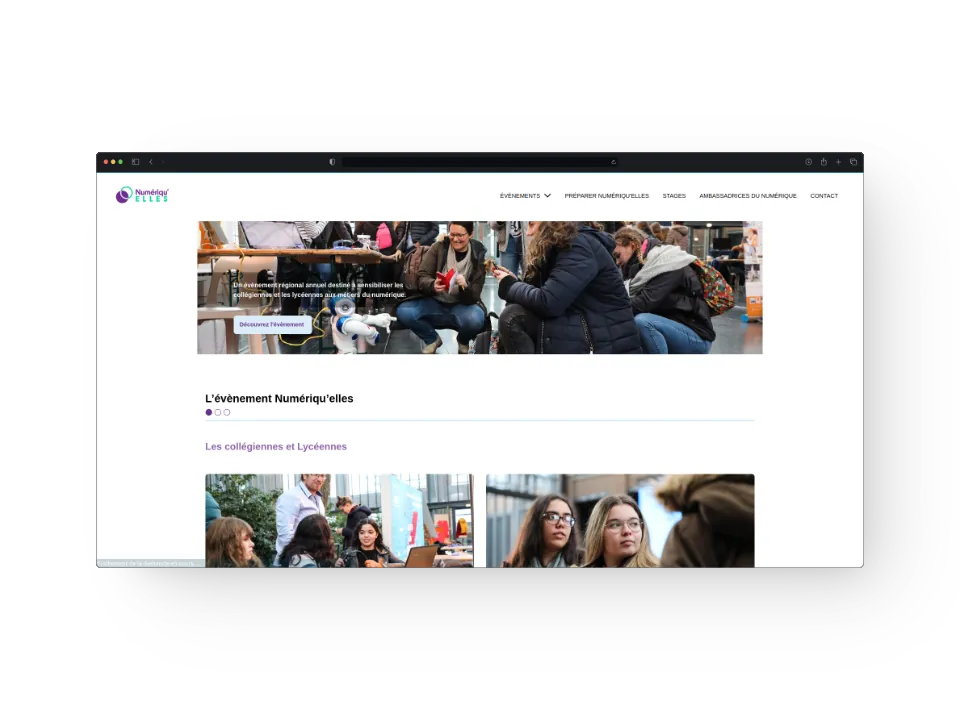
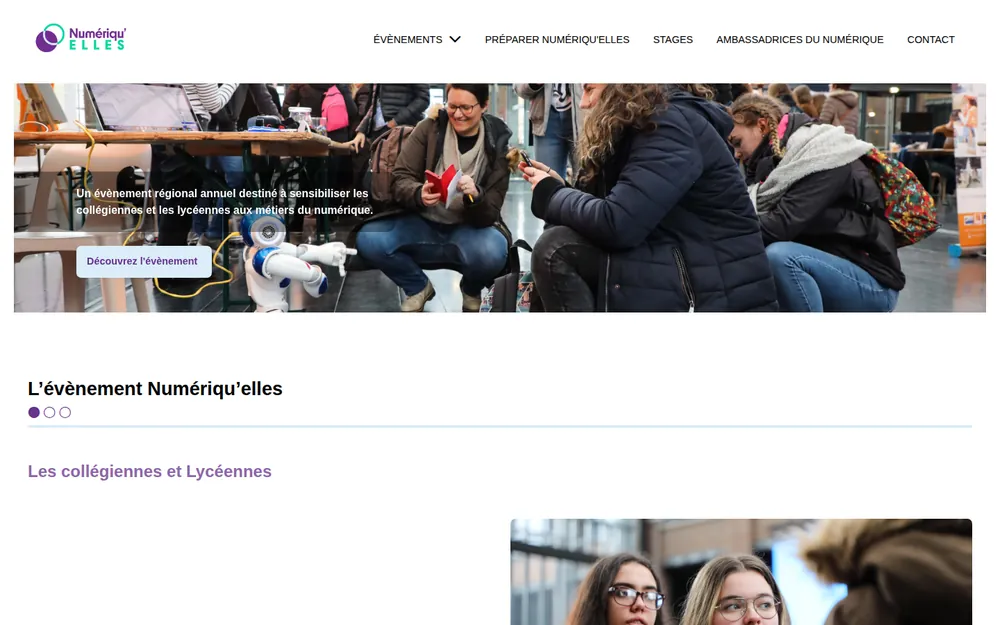
replace projects with recent work

diff --git a/index.html b/index.html
@@ -400,7 +400,7 @@
         <img loading="lazy" src="./shared/asterisque.svg" alt="">
       </h2>
       <p>
-        — Explore my GitHub for projects showcasing my
+        — A selection of recent projects showcasing my
         <span class="highlight">skills</span> in building efficient and creative solutions.
         Discover a range of projects highlighting my approach to <span class="highlight">clean</span>, 
         <span class="highlight">effective</span> development.
@@ -410,72 +410,84 @@
       <li>
         <div data-aos="fade-right" data-aos-anchor-placement="top-bottom" data-aos-delay="50" class="accordion_element">
           <span class="accordion_number">00</span>
-          <h3 class="accordion_title">last champion</h3>
+          <div class="accordion_info">
+            <h3 class="accordion_title">l'observatoire <span class="accordion_badge">✦ awwwards</span></h3>
+            <p class="accordion_desc">Scroll-driven journey through the solar system</p>
+            <p class="accordion_meta">react · vite · tailwind · gsap · 2025</p>
+          </div>
         </div>
         <div class="tooltip_image">
-          <img loading="lazy" src="./shared/last_champion.webp" alt="Mockup Last Champion">
+          <img loading="lazy" src="./shared/observatoire.webp" alt="Preview of L'Observatoire">
         </div>
-        <a data-aos="fade-left" data-aos-anchor-placement="top-bottom" data-aos-delay="50" class="accordion_git" href="https://github.com/Khadija-Asa/LastChampion" rel="noopener noreferrer" target="_blank">view on github <span aria-hidden="true">↗</span><span class="sr_only"> (opens in a new tab)</span></a>
+        <div data-aos="fade-left" data-aos-anchor-placement="top-bottom" data-aos-delay="50" class="accordion_links">
+          <a class="accordion_git accordion_live" href="https://observatoire-weld.vercel.app/" rel="noopener noreferrer" target="_blank">live <span aria-hidden="true">↗</span><span class="sr_only"> (opens in a new tab)</span></a>
+        </div>
       </li>
       <li>
         <div data-aos="fade-right" data-aos-anchor-placement="top-bottom" data-aos-delay="100" class="accordion_element">
           <span class="accordion_number">01</span>
-          <h3 class="accordion_title">space tourism</h3>
+          <div class="accordion_info">
+            <h3 class="accordion_title">lacet fluffy</h3>
+            <p class="accordion_desc">E-commerce for premium sneaker laces</p>
+            <p class="accordion_meta">next.js · tailwind · stripe · 2026</p>
+          </div>
         </div>
         <div class="tooltip_image">
-          <img loading="lazy" src="./shared/space_tourism.webp" alt="Mockup Space Tourism">
+          <img loading="lazy" src="./shared/lacet_fluffy.webp" alt="Preview of Lacet Fluffy">
         </div>
-        <a data-aos="fade-left" data-aos-anchor-placement="top-bottom" data-aos-delay="100" class="accordion_git" href="https://github.com/Khadija-Asa/space-tourism" rel="noopener noreferrer" target="_blank">view on github <span aria-hidden="true">↗</span><span class="sr_only"> (opens in a new tab)</span></a>
+        <div data-aos="fade-left" data-aos-anchor-placement="top-bottom" data-aos-delay="100" class="accordion_links">
+          <a class="accordion_git accordion_live" href="https://fluffy-laces.vercel.app/" rel="noopener noreferrer" target="_blank">live <span aria-hidden="true">↗</span><span class="sr_only"> (opens in a new tab)</span></a>
+        </div>
       </li>
       <li>
         <div data-aos="fade-right" data-aos-anchor-placement="top-bottom" data-aos-delay="150" class="accordion_element">
           <span class="accordion_number">02</span>
-          <h3 class="accordion_title">numériqu'elles</h3>
+          <div class="accordion_info">
+            <h3 class="accordion_title">last champion</h3>
+            <p class="accordion_desc">Character face-off game — only one can remain</p>
+            <p class="accordion_meta">react · vite · sass · gsap · sanity · 2025</p>
+          </div>
         </div>
         <div class="tooltip_image">
-          <img loading="lazy" src="./shared/numeriquelles.webp" alt="Mockup Numériqu'Elles">
+          <img loading="lazy" src="./shared/last_champion.webp" alt="Preview of Last Champion">
         </div>
-        <a data-aos="fade-left" data-aos-anchor-placement="top-bottom" data-aos-delay="150" class="accordion_git" href="https://github.com/Khadija-Asa/numeriqu-elles" rel="noopener noreferrer" target="_blank">view on github <span aria-hidden="true">↗</span><span class="sr_only"> (opens in a new tab)</span></a>
+        <div data-aos="fade-left" data-aos-anchor-placement="top-bottom" data-aos-delay="150" class="accordion_links">
+          <a class="accordion_git accordion_live" href="https://www.lastchampion.fr/" rel="noopener noreferrer" target="_blank">live <span aria-hidden="true">↗</span><span class="sr_only"> (opens in a new tab)</span></a>
+          <a class="accordion_git" href="https://github.com/Khadija-Asa/LastChampion" rel="noopener noreferrer" target="_blank">code <span aria-hidden="true">↗</span><span class="sr_only"> (opens in a new tab)</span></a>
+        </div>
       </li>
       <li>
         <div data-aos="fade-right" data-aos-anchor-placement="top-bottom" data-aos-delay="200" class="accordion_element">
           <span class="accordion_number">03</span>
-          <h3 class="accordion_title">levyna</h3>
+          <div class="accordion_info">
+            <h3 class="accordion_title">asalab</h3>
+            <p class="accordion_desc">Web agency site with project request tracking</p>
+            <p class="accordion_meta">next.js · typescript · tailwind · gsap · prisma · 2021</p>
+          </div>
         </div>
         <div class="tooltip_image">
-          <img loading="lazy" src="./shared/levyna.webp" alt="Mockup Levyna">
+          <img loading="lazy" src="./shared/asalab.webp" alt="Preview of Asalab">
         </div>
-        <a data-aos="fade-left" data-aos-anchor-placement="top-bottom" data-aos-delay="200" class="accordion_git" href="https://github.com/Khadija-Asa/levyna" rel="noopener noreferrer" target="_blank">view on github <span aria-hidden="true">↗</span><span class="sr_only"> (opens in a new tab)</span></a>
+        <div data-aos="fade-left" data-aos-anchor-placement="top-bottom" data-aos-delay="200" class="accordion_links">
+          <a class="accordion_git accordion_live" href="https://www.asalab.fr/" rel="noopener noreferrer" target="_blank">live <span aria-hidden="true">↗</span><span class="sr_only"> (opens in a new tab)</span></a>
+        </div>
       </li>
       <li>
         <div data-aos="fade-right" data-aos-anchor-placement="top-bottom" data-aos-delay="250" class="accordion_element">
           <span class="accordion_number">04</span>
-          <h3 class="accordion_title">moon crypto</h3>
+          <div class="accordion_info">
+            <h3 class="accordion_title">numériqu'elles</h3>
+            <p class="accordion_desc">Regional event inspiring girls into tech careers</p>
+            <p class="accordion_meta">html · css · bootstrap · figma · 2020</p>
+          </div>
         </div>
         <div class="tooltip_image">
-          <img loading="lazy" src="./shared/moon.webp" alt="Mockup Moon Crypto">
+          <img loading="lazy" src="./shared/numeriquelles.webp" alt="Preview of Numériqu'elles">
         </div>
-        <a data-aos="fade-left" data-aos-anchor-placement="top-bottom" data-aos-delay="250" class="accordion_git" href="https://github.com/Khadija-Asa/moon_crypto" rel="noopener noreferrer" target="_blank">view on github <span aria-hidden="true">↗</span><span class="sr_only"> (opens in a new tab)</span></a>
-      </li>
-      <li>
-        <div data-aos="fade-right" data-aos-anchor-placement="top-bottom" data-aos-delay="300" class="accordion_element">
-          <span class="accordion_number">05</span>
-          <h3 class="accordion_title">nft equilibrium</h3>
+        <div data-aos="fade-left" data-aos-anchor-placement="top-bottom" data-aos-delay="250" class="accordion_links">
+          <a class="accordion_git accordion_live" href="https://khadija-asa.github.io/numeriqu-elles/" rel="noopener noreferrer" target="_blank">live <span aria-hidden="true">↗</span><span class="sr_only"> (opens in a new tab)</span></a>
+          <a class="accordion_git" href="https://github.com/Khadija-Asa/numeriqu-elles" rel="noopener noreferrer" target="_blank">code <span aria-hidden="true">↗</span><span class="sr_only"> (opens in a new tab)</span></a>
         </div>
-        <div class="tooltip_image">
-          <img loading="lazy" src="./shared/nft.webp" alt="Mockup Nft Equilibrium">
-        </div>
-        <a data-aos="fade-left" data-aos-anchor-placement="top-bottom" data-aos-delay="300" class="accordion_git" href="https://github.com/Khadija-Asa/nft-card" rel="noopener noreferrer" target="_blank">view on github <span aria-hidden="true">↗</span><span class="sr_only"> (opens in a new tab)</span></a>
-      </li>
-      <li>
-        <div data-aos="fade-right" data-aos-anchor-placement="top-bottom" data-aos-delay="350" class="accordion_element">
-          <span class="accordion_number">06</span>
-          <h3 class="accordion_title">portfolio</h3> 
-        </div>
-        <div class="tooltip_image">
-          <img loading="lazy" src="./shared/portfolio.webp" alt="Mockup Portfolio">
-        </div>
-        <a data-aos="fade-left" data-aos-anchor-placement="top-bottom" data-aos-delay="300" class="accordion_git" href="https://github.com/Khadija-Asa/personal-website" rel="noopener noreferrer" target="_blank">view on github <span aria-hidden="true">↗</span><span class="sr_only"> (opens in a new tab)</span></a>
       </li>
     </ul>
   </section>

diff --git a/styles/styles.css b/styles/styles.css
@@ -74,7 +74,8 @@
 }
 
 .hero_text { 
-  text-align: justify;
+  text-align: center;
+  text-wrap: balance;
   text-transform: uppercase;
   font-size: clamp(0.8rem, 0.66rem + 0.7vw, 1.5rem);
   max-width: 70rem;
@@ -149,7 +150,8 @@
 
 .introduce_title {
   text-transform: uppercase;
-  text-align: justify;
+  text-align: left;
+  text-wrap: balance;
   font-size: clamp(2rem, 1.4rem + 3vw, 5rem);
   font-family: 'Bold';
   padding: 0 1rem 5rem 1rem;
@@ -162,7 +164,8 @@
   margin-top: 20px;
   font-size: initial;
   text-transform: none;
-  text-align: justify;
+  text-align: left;
+  text-wrap: pretty;
 }
 
 .introduce_title h2 {
@@ -311,7 +314,8 @@
 .work_text p {
   padding-bottom: clamp(5rem, 4rem + 5vw, 10rem);
   text-transform: uppercase;
-  text-align: justify;
+  text-align: center;
+  text-wrap: balance;
   max-width: 70rem;
   margin: 5rem 1rem 0 1rem;
   font-size: clamp(1rem, 0.7rem + 1.5vw, 2.5rem);
@@ -390,7 +394,8 @@
 .accordion_intro {
   text-transform: uppercase;
   padding: 5rem 1rem;
-  text-align: justify;
+  text-align: left;
+  text-wrap: balance;
   font-size: clamp(2rem, 1.4rem + 3vw, 5rem);
   font-family: 'Bold';
 }
@@ -406,6 +411,7 @@
 
 .work_accordion p {
   max-width: 500px;
+  text-wrap: pretty;
   margin-top: 20px;
   font-family: 'Pergola';
   font-weight: 100;
@@ -485,18 +491,34 @@ li:hover .tooltip_image img {
 
 /* media queries */
 @media screen and (width < 1024px) {
+  .accordion_list li {
+    flex-direction: column;
+    align-items: stretch;
+    gap: 1.2rem;
+  }
   .tooltip_image {
-    display: none;
+    position: static;
+    opacity: 1;
+    width: 100%;
+  }
+  .tooltip_image img {
+    clip-path: none;
+    border-radius: 5px;
+  }
+  .accordion_links {
+    align-self: flex-start;
   }
 }
 
 /* number */
 .accordion_title {
-  font-size: inherit;
+  font-size: clamp(1.3rem, 0.8rem + 1.6vw, 3rem);
   font-weight: inherit;
 }
 
 .accordion_number {
+  min-width: 1.6em;
+  flex-shrink: 0;
   font-family: 'Aceh';
   font-size: clamp(1.5rem, 1rem + 2.5vw, 4rem);
   padding-top: clamp(0.0625rem, -0.075rem + 0.6875vw, 0.75rem);
@@ -516,6 +538,49 @@ li:hover .tooltip_image img {
 
 .accordion_git:hover {
   transform: translate(0, -2px);
+}
+
+.accordion_info {
+  display: flex;
+  flex-direction: column;
+  gap: .4rem;
+}
+
+.accordion_badge {
+  display: inline-block;
+  vertical-align: middle;
+  margin-left: .5rem;
+  padding: .3rem .6rem .2rem .6rem;
+  border: 1px solid var(--Purple);
+  border-radius: 50px;
+  color: var(--Purple);
+  font-family: 'Pergola';
+  font-size: clamp(0.6rem, 0.56rem + 0.2vw, 0.8rem);
+  letter-spacing: .05em;
+}
+
+.accordion_desc {
+  font-family: 'Pergola';
+  text-transform: none;
+  font-size: clamp(0.85rem, 0.8rem + 0.25vw, 1.1rem);
+}
+
+.accordion_meta {
+  font-family: 'Pergola';
+  text-transform: lowercase;
+  font-size: clamp(0.7rem, 0.66rem + 0.2vw, 0.9rem);
+  opacity: .6;
+}
+
+.accordion_links {
+  display: flex;
+  gap: .6rem;
+  flex-shrink: 0;
+}
+
+.accordion_live {
+  background-color: var(--Gray);
+  color: var(--Black);
 }
 
 
